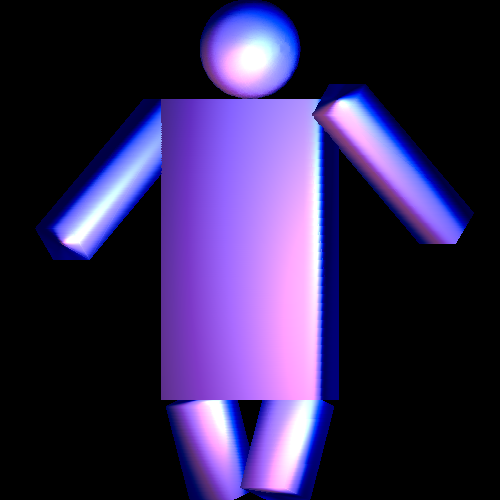
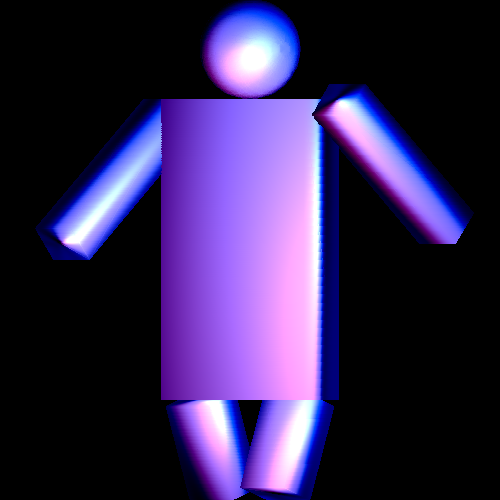
appreciation

diff --git a/display.c b/display.c
@@ -147,12 +147,12 @@ void plot1( screen s, int x, int y, int z, struct matrix *zbuf, double * n, stru
       //printf("%f %f %f\n",c.red, c.green, c.blue);
       //printf("lighting\n");
       //printf("%d\n",i);
-      c.red = c.red>255?255:c.red;
+      /* c.red = c.red>255?255:c.red;
       c.red = c.red<0?0:c.red;
       c.green = c.green>255?255:c.green;
       c.green = c.green<0?0:c.green;
       c.blue = c.blue>255?255:c.blue;
-      c.blue = c.blue<0?0:c.blue;
+      c.blue = c.blue<0?0:c.blue;*/
     }
     c.red = c.red>255?255:c.red;
       c.red = c.red<0?0:c.red;
